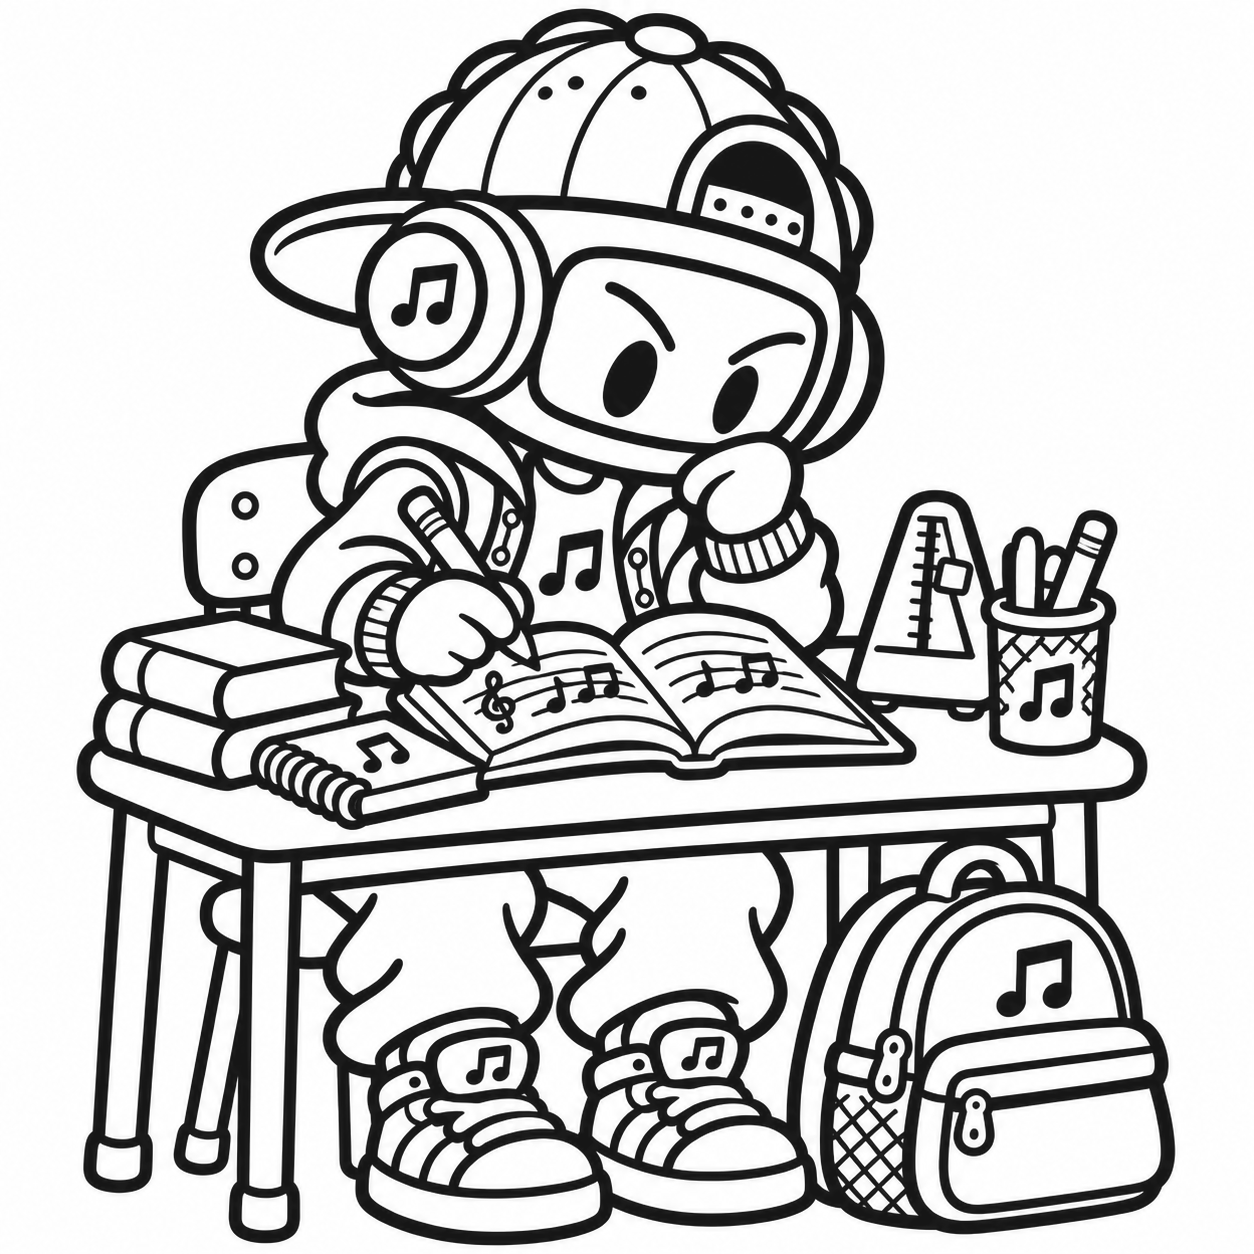
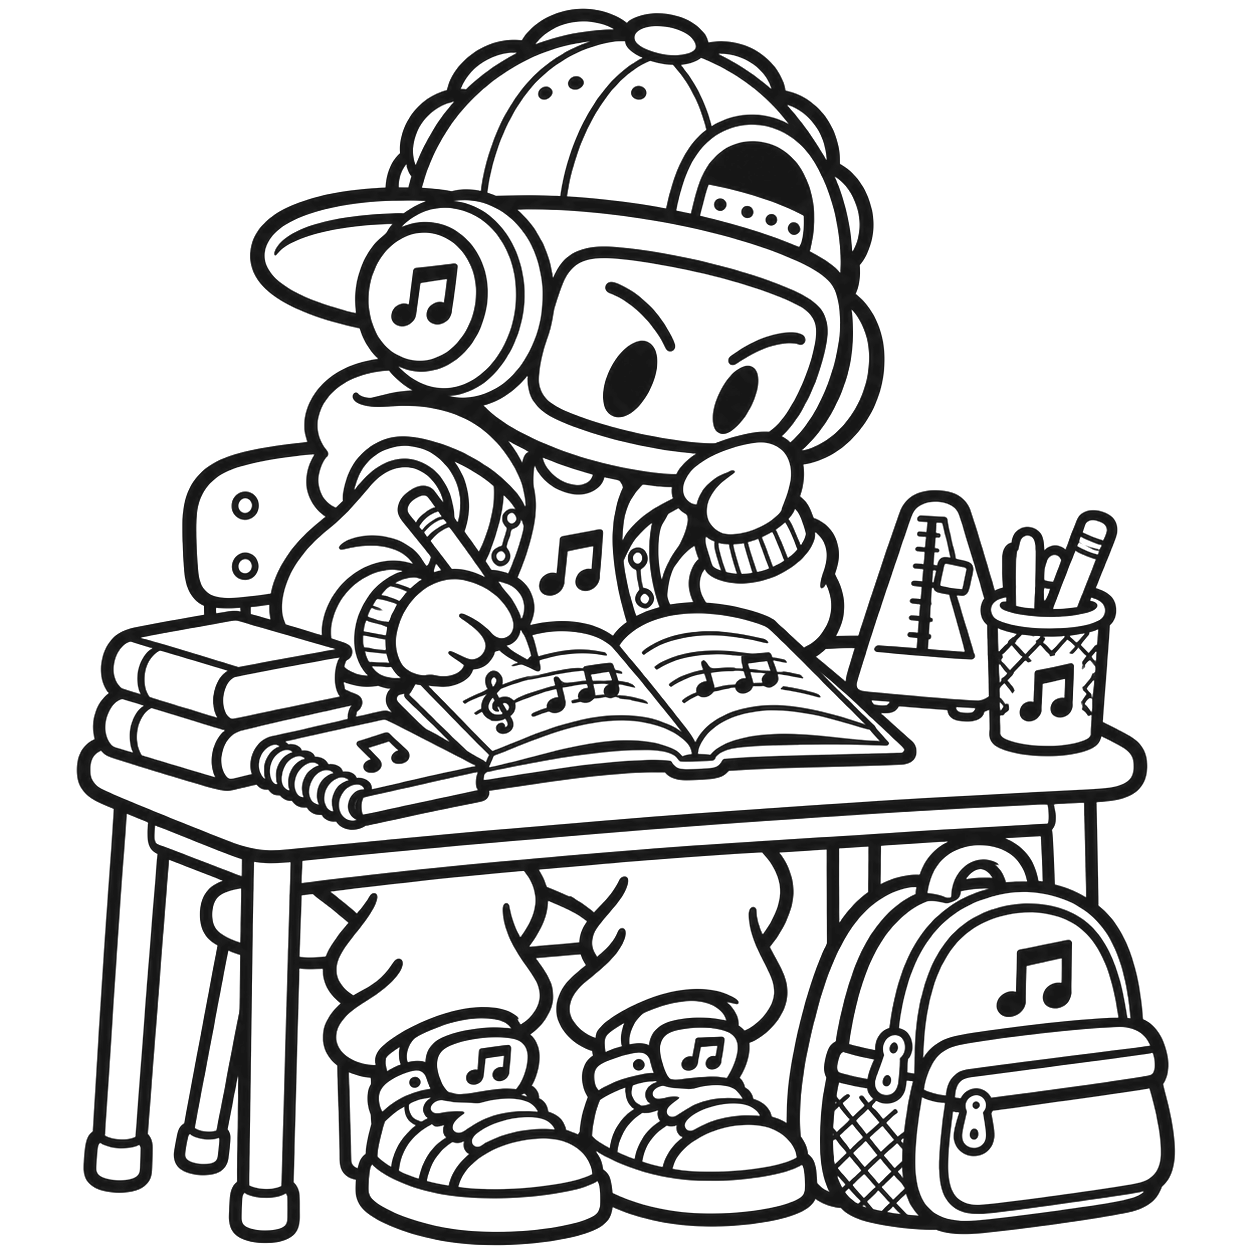
Cards do Paul: capa leve do dicionário (modelo D) e Paul preto com fundo limpo
Claude-Session: https://claude.ai/code/session_017EkthzUmpi8m3Mk38ECnG2

diff --git a/marketing/cards-paul/dicionario-capa.html b/marketing/cards-paul/dicionario-capa.html
@@ -1,0 +1,31 @@
+<!doctype html>
+<html lang="pt-BR"><head><meta charset="utf-8"><title>Capa · Cards do Robôterista Paul · Dicionário Musical</title>
+<link rel="stylesheet" href="../../css/fonts.css">
+<style>
+@page{size:210mm 297mm;margin:0}*{box-sizing:border-box;margin:0}
+html,body{background:#fff;color:#162146;font-family:"Hanken Grotesk",system-ui,sans-serif;-webkit-print-color-adjust:exact;print-color-adjust:exact}
+.pg{width:210mm;height:297mm;position:relative;overflow:hidden;display:flex;flex-direction:column;align-items:center;text-align:center;padding:16mm 16mm 12mm}
+.moldura{position:absolute;inset:7mm;border:.5mm solid #162146;border-radius:6mm;pointer-events:none}
+.placa{display:flex;align-items:center;gap:4mm}.placa img:first-child{height:18mm}.placa img:last-child{height:11mm}
+.cards-de{font:400 26pt/1 Anton;letter-spacing:.2em;margin-top:9mm;color:#162146}
+.logo{height:56mm;margin-top:3mm;display:block}
+.pauta{position:relative;width:100%;margin-top:5mm;padding:4mm 0}
+.pauta:before{content:"";position:absolute;left:-9mm;right:-9mm;top:50%;height:21mm;margin-top:-10.5mm;background:repeating-linear-gradient(#9aa2bb 0 .35mm,transparent .35mm 5.2mm)}
+.pauta b{position:relative;display:inline-block;background:#fff;padding:1.5mm 9mm;font:400 34pt/1 Anton;letter-spacing:.06em;text-transform:uppercase;color:#162146;border:.5mm solid #162146;border-radius:99mm}
+.sub{margin-top:6mm;font:700 12pt/1.4 "Hanken Grotesk";max-width:140mm;color:#262b45}
+.paul{height:95mm;margin-top:5mm;display:block}
+.grupos{display:flex;gap:3mm;margin-top:3mm}.grupos span{font:800 8pt/1 "Hanken Grotesk";letter-spacing:.12em;text-transform:uppercase;padding:2mm 4mm;border:.4mm solid #162146;border-radius:99mm}
+.site{margin-top:auto;font:400 17pt/1 Anton;letter-spacing:.06em}.aut{font:700 8pt/1.4 "Hanken Grotesk";margin-top:2mm;color:#4b5068}
+</style></head><body>
+<section class="pg"><div class="moldura"></div>
+<div class="placa"><img src="../../assets/logo-512.png"><img src="../../assets/logo-nome.png"></div>
+<div class="cards-de">CARDS DO</div>
+<img class="logo" src="../../assets/originals/logo-roboterista-paul-alta.png" alt="Robôterista Paul">
+<div class="pauta"><b>dicionário musical</b></div>
+<p class="sub">75 palavras de quem vive de música, explicadas com desenho, exemplo e uma dica. imprime, recorta e brinca.</p>
+<img class="paul" src="img/paul-estudando-pb.png" alt="">
+<div class="grupos"><span>banda e palco</span><span>estúdio e equipamento</span><span>como o músico fala</span></div>
+<div class="site">jogos.beaterista.com.br</div><div class="aut">criado por prof. Bea · Beatriz Marques · Beaterista escola de música</div>
+</section>
+<script>Promise.all([].slice.call(document.images).map(function(im){return im.complete?0:new Promise(function(ok){im.onload=im.onerror=ok;});})).then(function(){return document.fonts.ready;}).then(function(){window.__pronto=true;});</script>
+</body></html>
